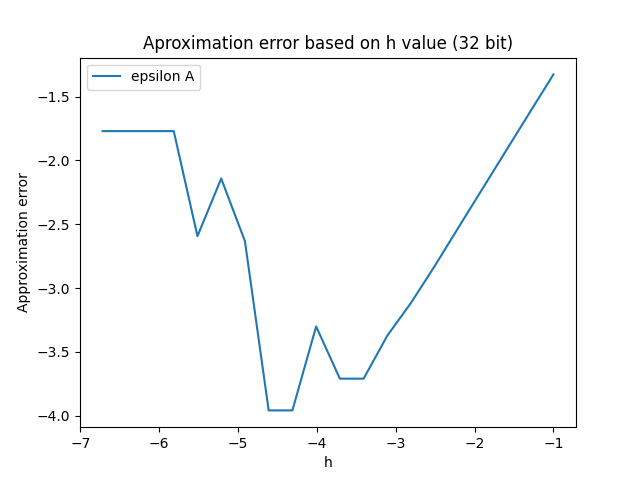
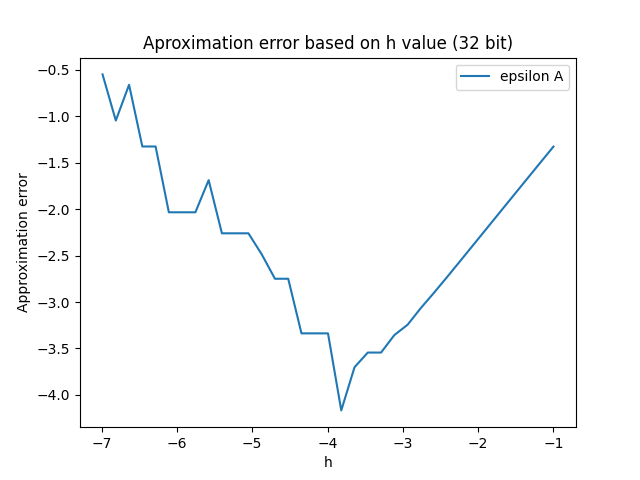
feat: more precision

diff --git a/zad1/program32.py b/zad1/program32.py
@@ -45,10 +45,10 @@ while hVal > limit:
     resA.append(np.log10(epsiA))
     resB.append(np.log10(epsiB))
 
-    hVal = hVal / np.float32(2)
+    hVal = hVal / np.float32(1.5)
 
-plt.plot(xAxis, resA, label='epsilon A')
-plt.plot(xAxis, resB, label='epsilon B')
+plt.plot(xAxis, resA, label='epsilon A', color='C0')
+plt.plot(xAxis, resB, label='epsilon B', color='C1')
 plt.xlabel('h')
 plt.ylabel('Approximation error')
 plt.title('Aproximation error based on h value (32 bit)')

diff --git a/zad1/program64.py b/zad1/program64.py
@@ -45,10 +45,10 @@ while hVal > limit:
     resA.append(np.log10(epsiA))
     resB.append(np.log10(epsiB))
 
-    hVal = hVal / np.float64(2)
+    hVal = hVal / np.float64(1.5)
 
-plt.plot(xAxis, resA, label='epsilon A')
-plt.plot(xAxis, resB, label='epsilon B')
+plt.plot(xAxis, resA, label='epsilon A', color='C0')
+plt.plot(xAxis, resB, label='epsilon B', color='C1')
 plt.xlabel('h')
 plt.ylabel('Approximation error')
 plt.title('Aproximation error based on h value (64 bit)')
